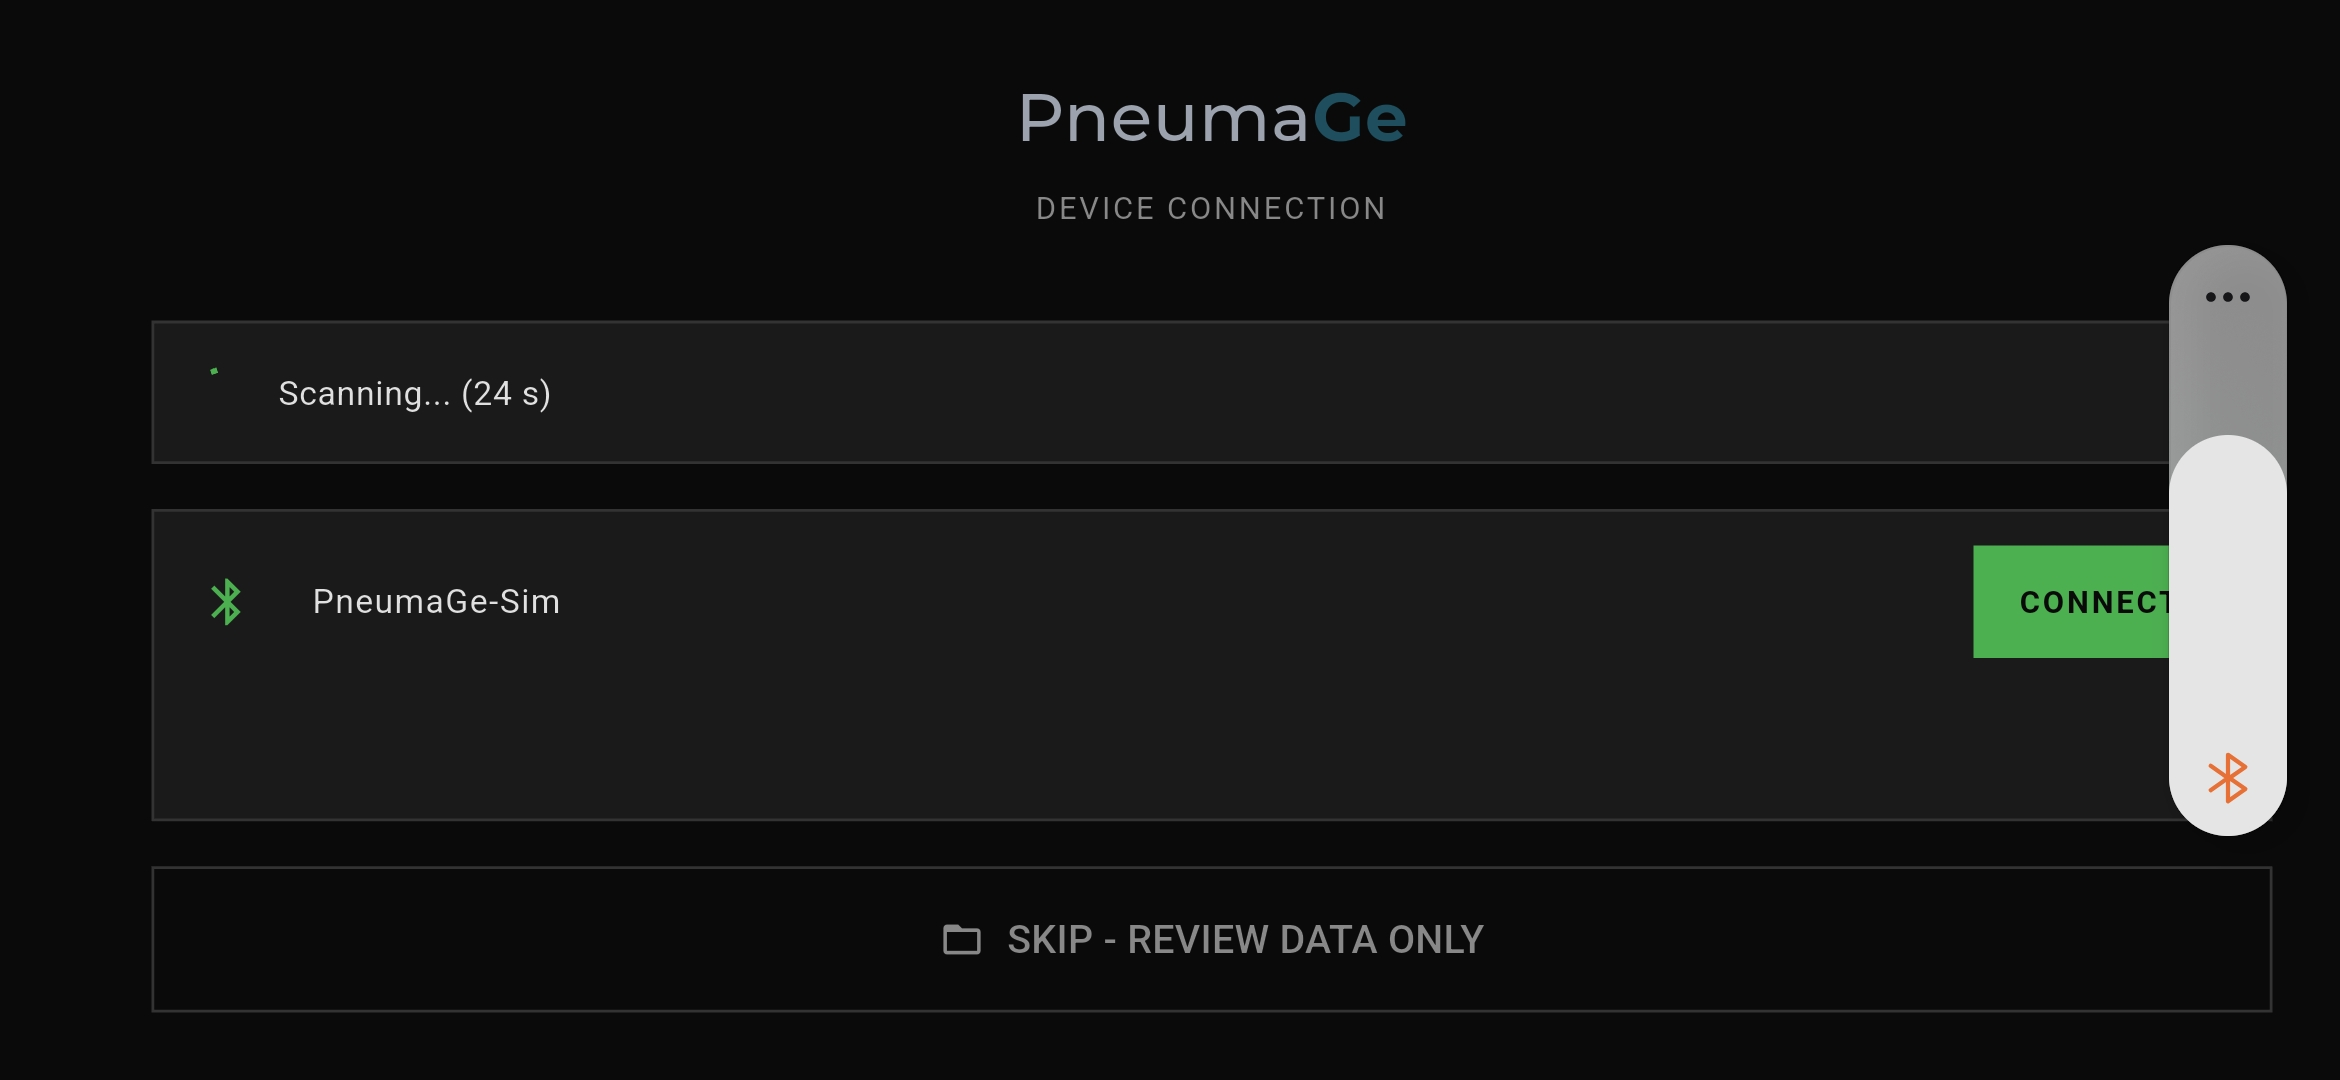
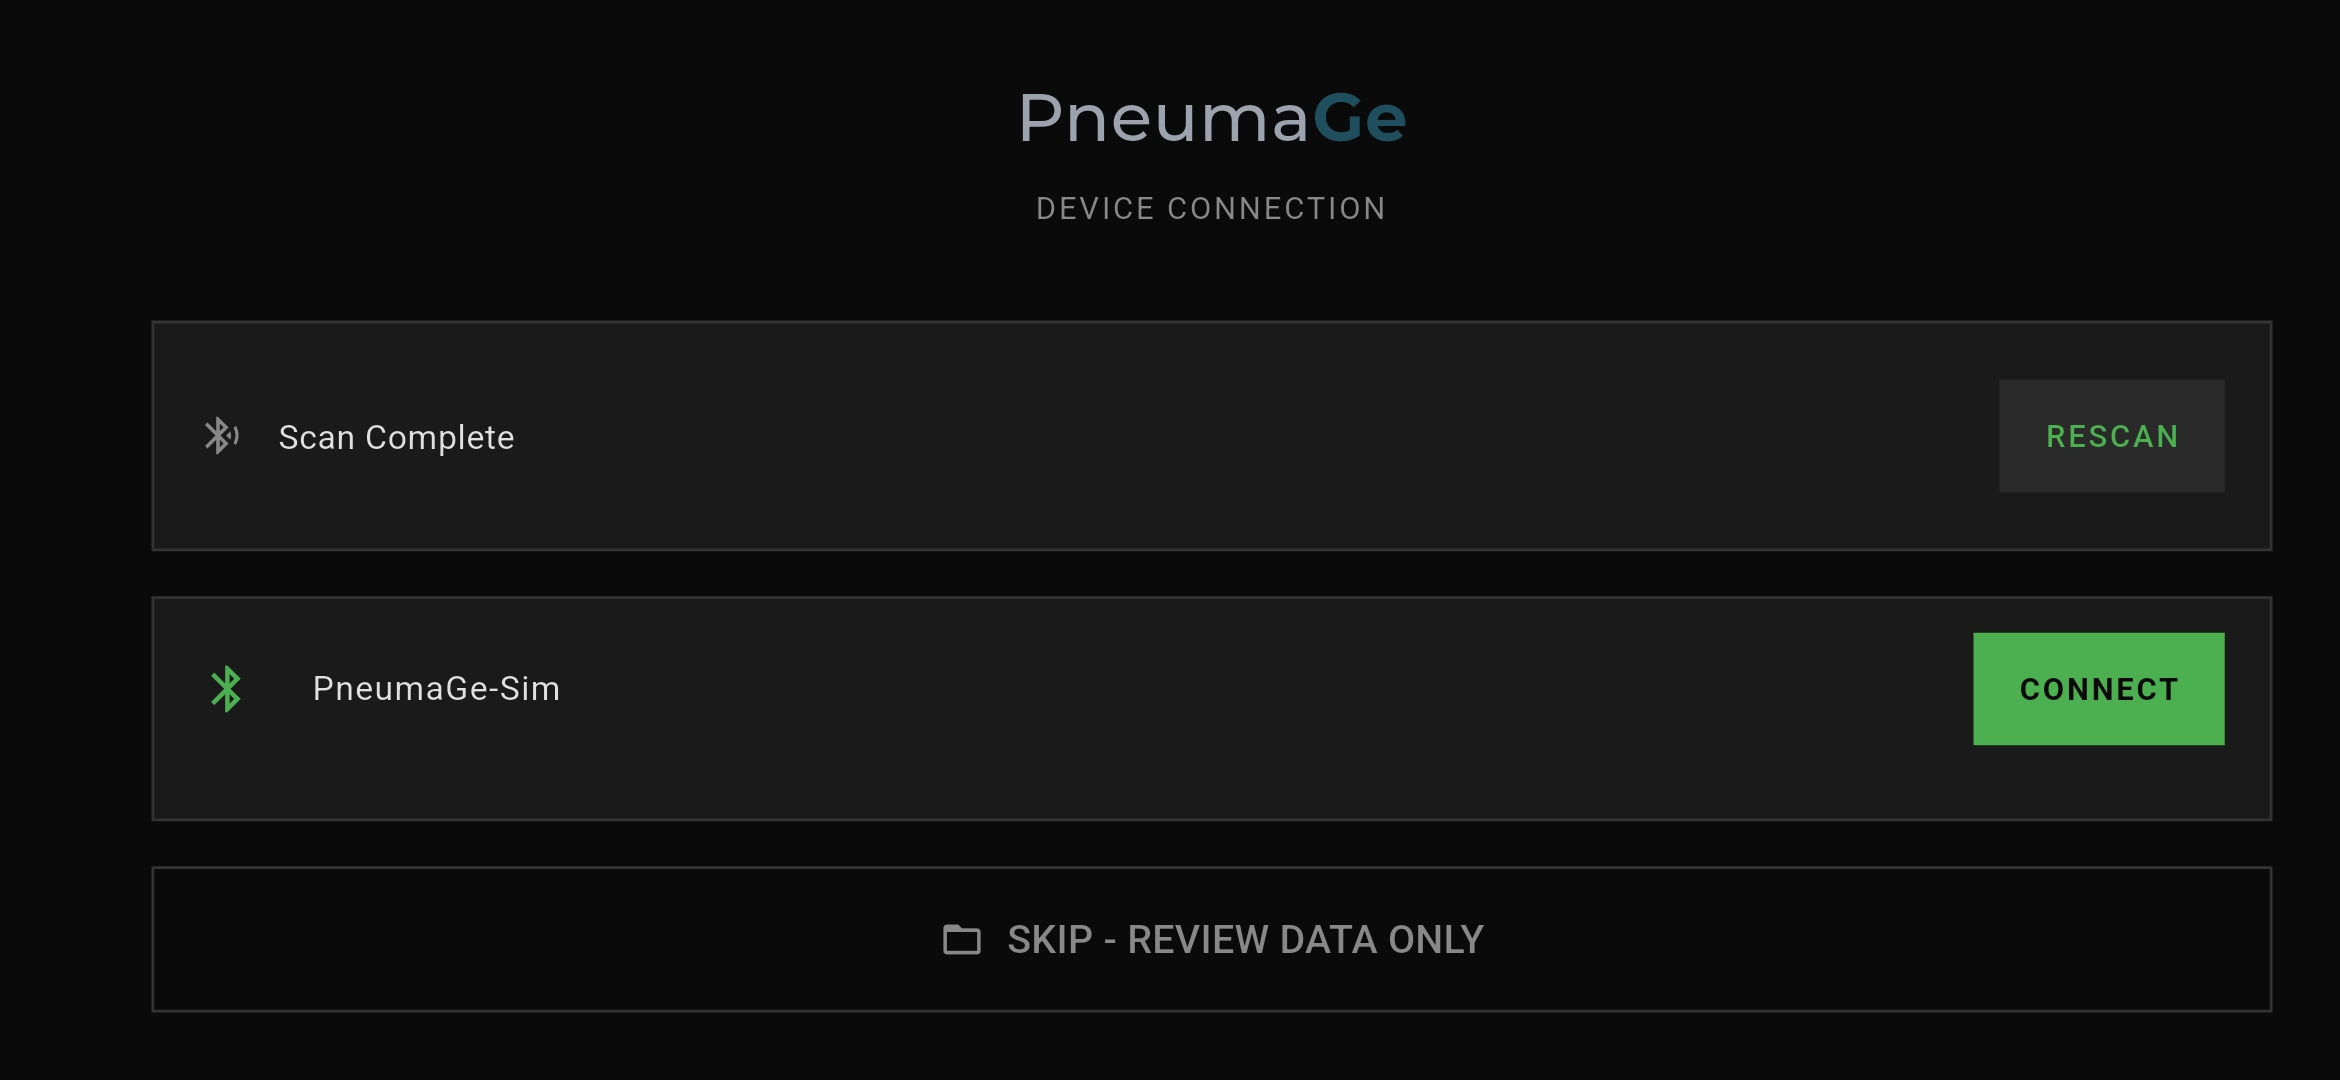
quick fixes for mapbox config and gps service stream handling

diff --git a/lib/widgets/map_widget.dart b/lib/widgets/map_widget.dart
@@ -41,12 +41,23 @@ class InteractiveMapWidget extends ConsumerStatefulWidget {
 class _InteractiveMapWidgetState extends ConsumerState<InteractiveMapWidget> {
   MapboxMap? _mapboxMap;
   PointAnnotationManager? _annotationManager;
+  bool _hasCenteredOnGps = false; // Track if we've already centered on user position
   // Note: No longer need manual marker - using Mapbox location component instead
 
   @override
   Widget build(BuildContext context) {
     // Watch GPS position for GPS accuracy indicator display
     final currentPosition = ref.watch(currentPositionProvider);
+
+    // Listen to GPS position changes and center map on first valid position
+    ref.listen<AsyncValue<geo.Position>>(gpsPositionProvider, (previous, next) {
+      next.whenData((position) {
+        if (!_hasCenteredOnGps && _mapboxMap != null) {
+          _centerOnUserPosition(position);
+          _hasCenteredOnGps = true;
+        }
+      });
+    });
 
     // Note: Mapbox location component automatically updates the location puck
     // No need to manually update markers - the built-in component handles it
@@ -121,6 +132,36 @@ class _InteractiveMapWidgetState extends ConsumerState<InteractiveMapWidget> {
 
     // Load measurement markers from all projects
     await _loadMeasurementMarkers();
+
+    // Center on user position if GPS is already available
+    final currentPosition = ref.read(currentPositionProvider);
+    if (currentPosition != null && !_hasCenteredOnGps) {
+      _centerOnUserPosition(currentPosition);
+      _hasCenteredOnGps = true;
+    }
+  }
+
+  /// Center the map camera on the user's current position
+  void _centerOnUserPosition(geo.Position position) {
+    if (_mapboxMap == null) return;
+
+    final point = Point(
+      coordinates: Position(
+        position.longitude,
+        position.latitude,
+      ),
+    );
+
+    // Animate camera to user position with a nice zoom level
+    _mapboxMap!.flyTo(
+      CameraOptions(
+        center: point,
+        zoom: 15.0, // Zoomed in for better detail
+      ),
+      MapAnimationOptions(duration: 1500), // Smooth 1.5s animation
+    );
+
+    print('[Map] Centered on user position: ${position.latitude}, ${position.longitude}');
   }
 
   // DEPRECATED: Manual marker approach replaced by Mapbox location component

diff --git a/lib/services/gps_service.dart b/lib/services/gps_service.dart
@@ -141,8 +141,13 @@ class GpsService {
         desiredAccuracy: LocationAccuracy.high,
       );
       print('[GPS] Initial position: ${_currentPosition!.latitude}, ${_currentPosition!.longitude} (±${_currentPosition!.accuracy}m)');
-      _positionController.add(_currentPosition!);
-      _qualityController.add(quality);
+      
+      if (!_positionController.isClosed) {
+        _positionController.add(_currentPosition!);
+      }
+      if (!_qualityController.isClosed) {
+        _qualityController.add(quality);
+      }
     } catch (e) {
       print('[GPS] Error getting initial position: $e');
     }

diff --git a/lib/config/mapbox_config.dart b/lib/config/mapbox_config.dart
@@ -30,9 +30,9 @@
 /// - Public token (pk.*) - for map display
 /// - Secret token (sk.*) - for downloading SDK dependencies (Android gradle)
 
-// Try to import local config (ignored by git)
-// ignore: uri_does_not_exist
-import 'mapbox_config_local.dart' if (dart.library.io) 'mapbox_config_stub.dart';
+// Import local config (ignored by git)
+// Falls back to stub only on web platform
+import 'mapbox_config_local.dart' if (dart.library.html) 'mapbox_config_stub.dart';
 
 class MapboxConfig {
   /// Public access token for map display and tile downloads
